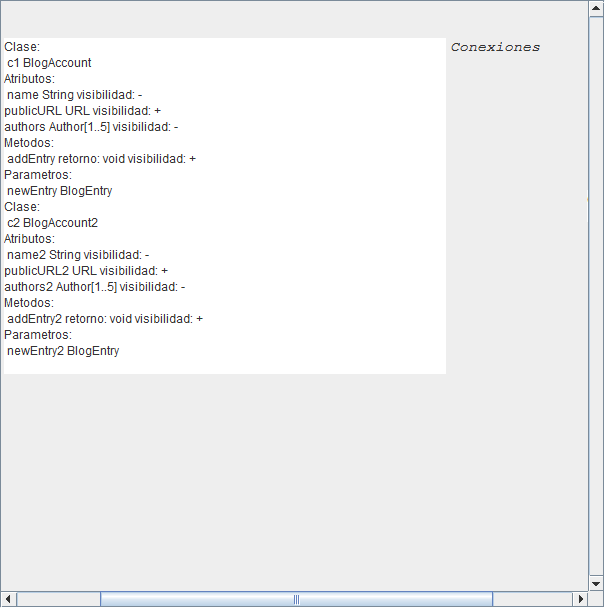
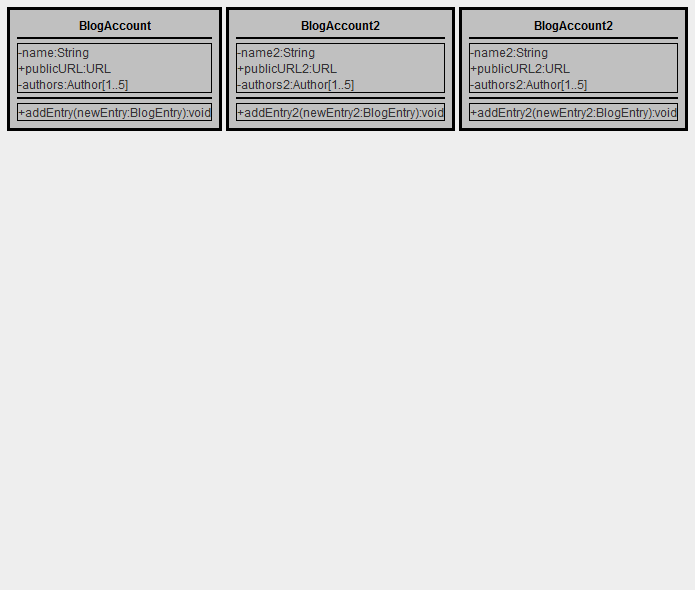
Merge entre el editor y el diag de clase

Changed region(s): [[0.0, 0.0, 1.0, 1.0]]

diff --git a/ProyectoGrupo15/src/DiagramCase/InterfazDiagClase.java b/ProyectoGrupo15/src/DiagramCase/InterfazDiagClase.java
@@ -1,30 +1,142 @@
 package DiagramCase;
 
-import java.awt.BorderLayout;
-import java.awt.EventQueue;
+import java.awt.Font;
+import java.awt.event.ActionEvent;
+import java.awt.event.ActionListener;
+import java.awt.image.BufferedImage;
+import java.io.File;
+import java.io.IOException;
 
-import javax.swing.JFrame;
+import javax.imageio.ImageIO;
+import javax.swing.JButton;
+import javax.swing.JLabel;
 import javax.swing.JPanel;
-import javax.swing.border.EmptyBorder;
+import javax.swing.JTextArea;
 
-public class InterfazDiagClase extends JFrame {
+import UseCase.Connection;
+import net.miginfocom.swing.MigLayout;
+import javax.swing.JScrollPane;
 
-	private JPanel contentPane;
-
-	/**
-	 * Launch the application.
-	 */
-
-	/**
-	 * Create the frame.
-	 */
-	public InterfazDiagClase() {
-		setDefaultCloseOperation(JFrame.EXIT_ON_CLOSE);
-		setBounds(100, 100, 450, 300);
-		contentPane = new JPanel();
-		contentPane.setBorder(new EmptyBorder(5, 5, 5, 5));
-		contentPane.setLayout(new BorderLayout(0, 0));
-		setContentPane(contentPane);
+	public class InterfazDiagClase extends JScrollPane {
+	
+	
+	ClassDiagram cd;
+	JPanel jp;
+	public JPanel getJp() {
+		return jp;
+	}
+	public void setJp(JPanel jp) {
+		this.jp = jp;
 	}
 
+
+	Cuadro cu;
+	
+	public InterfazDiagClase(ClassDiagram cdd) {
+		
+
+		cd = cdd;
+	
+		placeComponents();
+
+
+	}
+	private void placeComponents() {
+		
+		setVerticalScrollBarPolicy(VERTICAL_SCROLLBAR_ALWAYS);
+		setHorizontalScrollBarPolicy(HORIZONTAL_SCROLLBAR_ALWAYS);
+	
+		jp = new JPanel();
+		jp.setLayout(new MigLayout("", "[grow]", "[]"));
+		setViewportView(jp);
+		placeClasses();
+		placeConnections();
+		
+		
+			
+		
+	}
+	
+		private void placeClasses(){
+						
+		java.util.List<Clase> list = cd.getClasses();
+		
+		for (int i = 0; i < list.size(); i++)
+		{
+			
+			cu = new Cuadro();
+			
+			Clase c = list.get(i);
+			
+		
+			cu.Nombre.setText(c.nombre);
+			cu.setBounds(300,50,250,500);
+			add(cu);
+			java.util.List<Atributos> list2= c.getAtt();
+			
+			
+			for (int j = 0; j < list2.size(); j++)
+			{
+				Atributos a = list2.get(j);
+			
+				
+				cu.Atributos.setText(cu.Atributos.getText()+ a.visibilidad + a.nombre + ":" + a.tipo );				
+				if(j+1 != list2.size()){
+				cu.Atributos.setText(cu.Atributos.getText() + "\n");	
+				}
+			}
+			
+			java.util.List<Metodos> list3= c.getMethods();
+		
+			
+			for (int j = 0; j < list3.size(); j++)
+			{
+				Metodos m = list3.get(j);
+				
+				cu.Metodos.setText(cu.Metodos.getText()+ m.visibilidad + m.nombre + "(");
+				
+				java.util.List<Parametros> list4= m.getParam();
+			
+	
+				
+				for (int k = 0; k < list4.size(); k++)
+				{
+					Parametros p = list4.get(j);
+					
+					
+					cu.Metodos.setText(cu.Metodos.getText()+ p.nombre + ":" +  p.tipo );
+					if(k+1 != list4.size()){
+						cu.Atributos.setText(cu.Atributos.getText() + ", ");	
+						}
+					
+				
+			
+				}
+				
+				cu.Metodos.setText(cu.Metodos.getText()+ ")" + ":" + m.retorno);
+				if(j+1 != list3.size()){
+					cu.Atributos.setText(cu.Atributos.getText() + "\n");	
+					}
+			}
+			
+			jp.add(cu);
+		}
+		}
+		
+	
+	private void placeConnections()
+	{
+		
+	
+		
+		//Itero para recoger todas las conexiones
+		java.util.List<Connection> list = cd.getConnections();
+		for (int i = 0; i < list.size(); i++)
+		{
+			Connection c = list.get(i);
+			
+		}
+	
+	}
+	
 }

diff --git a/ProyectoGrupo15/src/Editor/VentanasUnidas.java b/ProyectoGrupo15/src/Editor/VentanasUnidas.java
@@ -85,9 +85,9 @@ public class VentanasUnidas extends JFrame {
 			if (e.getSource() == PNGButton){
 				
 				 {
-				BufferedImage image = new BufferedImage(ddc.getWidth(), ddc.getHeight(), BufferedImage.TYPE_INT_RGB);
+				BufferedImage image = new BufferedImage(ddc.getJp().getWidth(), ddc.getJp().getHeight(), BufferedImage.TYPE_INT_RGB);
 					
-				ddc.paint(image.getGraphics());
+				ddc.getJp().paint(image.getGraphics());
 				File file = new File("diagclase.png");
 				try {
 					ImageIO.write(image, "png", file);
@@ -153,10 +153,12 @@ public class VentanasUnidas extends JFrame {
 				}
 				else //ClassDiagram
 				{
-					Compilador comp = new Compilador(archivo);
+		
+					Compilador comp = new Compilador(doc);
 					ClassDiagram classdiagram = comp.getClassdiagram();
 					if(ddc != null)
 					contentPane.remove(ddc);
+					
 					ddc = new InterfazDiagClase(classdiagram);
 						
 					contentPane.add(ddc, "cell 2 0,grow");

diff --git a/ProyectoGrupo15/src/DiagramCase/XMLClassDiagram.java b/ProyectoGrupo15/src/DiagramCase/XMLClassDiagram.java
@@ -16,13 +16,14 @@ import org.xml.sax.SAXException;
 
 public class XMLClassDiagram {
 
+	Document d;
 	
-	File file;
 	ClassDiagram cd;
 
-	public XMLClassDiagram(File f)
+	public XMLClassDiagram(Document d2)
 	{
-		this.file = f;
+		
+		d= d2;
 		cd = new ClassDiagram();
 		Leer();
 	}
@@ -33,9 +34,8 @@ public class XMLClassDiagram {
 	
 		try {
 			
-			DocumentBuilderFactory dbFactory = DocumentBuilderFactory.newInstance();
-			DocumentBuilder dBuilder = dbFactory.newDocumentBuilder();
-			Document doc = dBuilder.parse(file);
+			
+			Document doc = d;
 			
 			Element rootElement = doc.getDocumentElement();	
 			
@@ -121,7 +121,7 @@ public class XMLClassDiagram {
 			}
 			
 			
-		} catch (ParserConfigurationException | SAXException | IOException e) {
+		} catch (Exception e) {
 		
 			e.printStackTrace();
 		}

diff --git a/ProyectoGrupo15/src/DiagramCase/Compilador.java b/ProyectoGrupo15/src/DiagramCase/Compilador.java
@@ -1,6 +1,10 @@
 package DiagramCase;
 import java.io.*;
 
+import org.w3c.dom.Document;
+
+
+
 
 
 public class Compilador {
@@ -18,9 +22,9 @@ public class Compilador {
 	XMLClassDiagram xcd;
 	
 
-	public Compilador(File f)
+	public Compilador(Document d)
 	{
-		xcd = new XMLClassDiagram(f);
+		xcd = new XMLClassDiagram(d);
 		classdiagram = xcd.getDiagram();
 		
 	}
